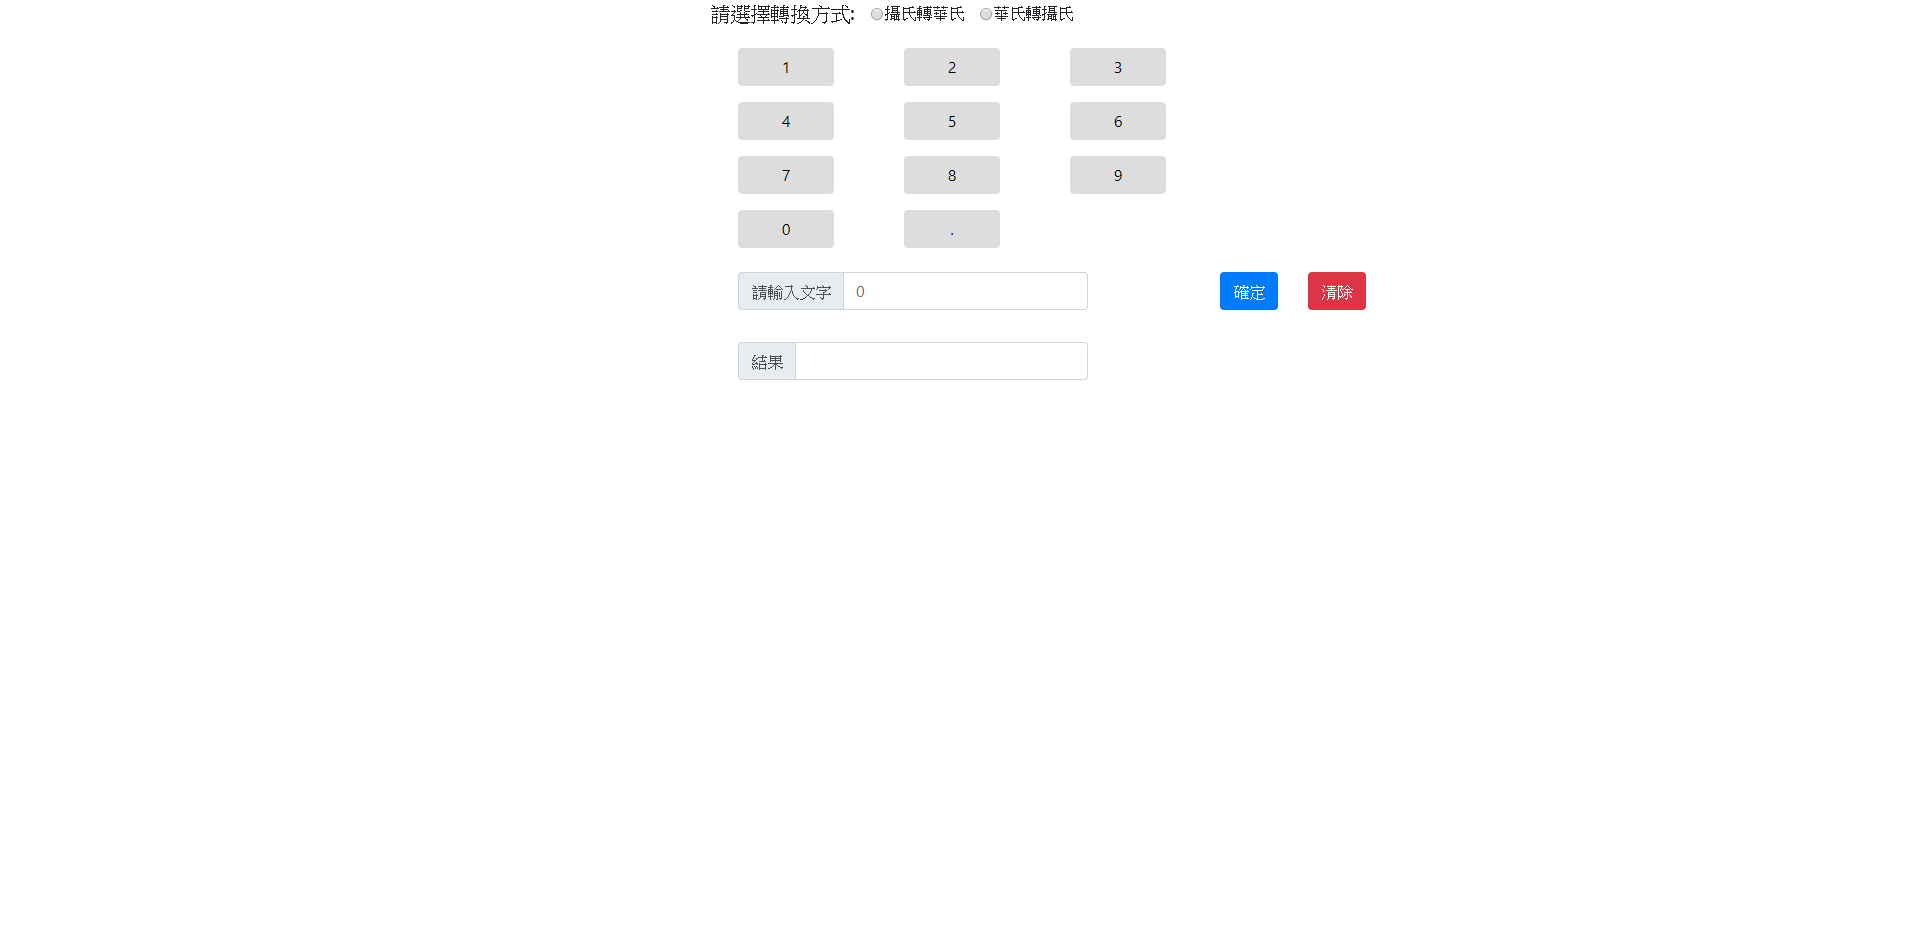
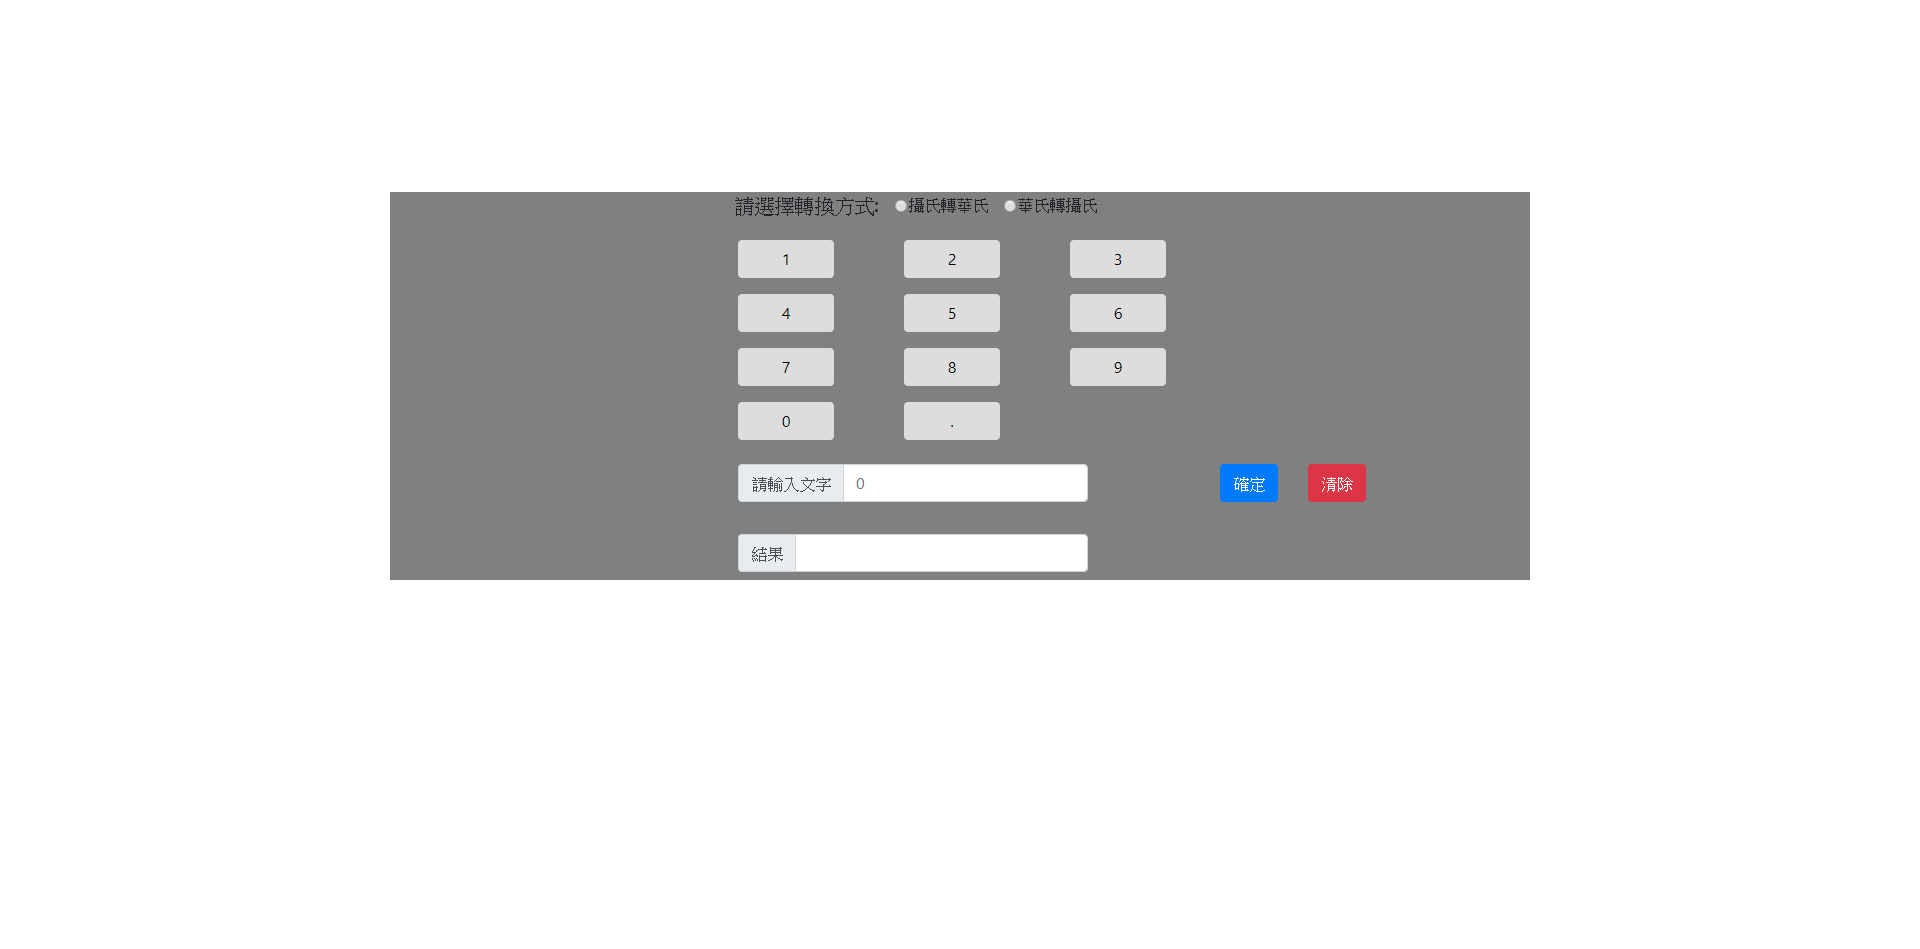
更新

Changed region(s): [[0.1875, 0.0, 0.8125, 0.6112]]

diff --git a/index.html b/index.html
@@ -21,11 +21,11 @@
         crossorigin="anonymous"></script>
     <script src="https://maxcdn.bootstrapcdn.com/bootstrap/4.0.0/js/bootstrap.min.js" integrity="sha384-JZR6Spejh4U02d8jOt6vLEHfe/JQGiRRSQQxSfFWpi1MquVdAyjUar5+76PVCmYl"
         crossorigin="anonymous"></script>
-    <div class="container">
+    <div class="container" style="background-color: gray; margin-top: 10%">
         <div class="row">
             <div class="offset-3"></div>
             <div class="col-5 text-center">
-                <div class="form-check">
+                <div class="form-check ml-4">
                     <div class="input-group input-group-sm ">
                         <h5 class="text-center">請選擇轉換方式:</h5>
                         <input type="radio" name="name" id="unitCF" class="ml-3 mt-2">攝氏轉華氏
